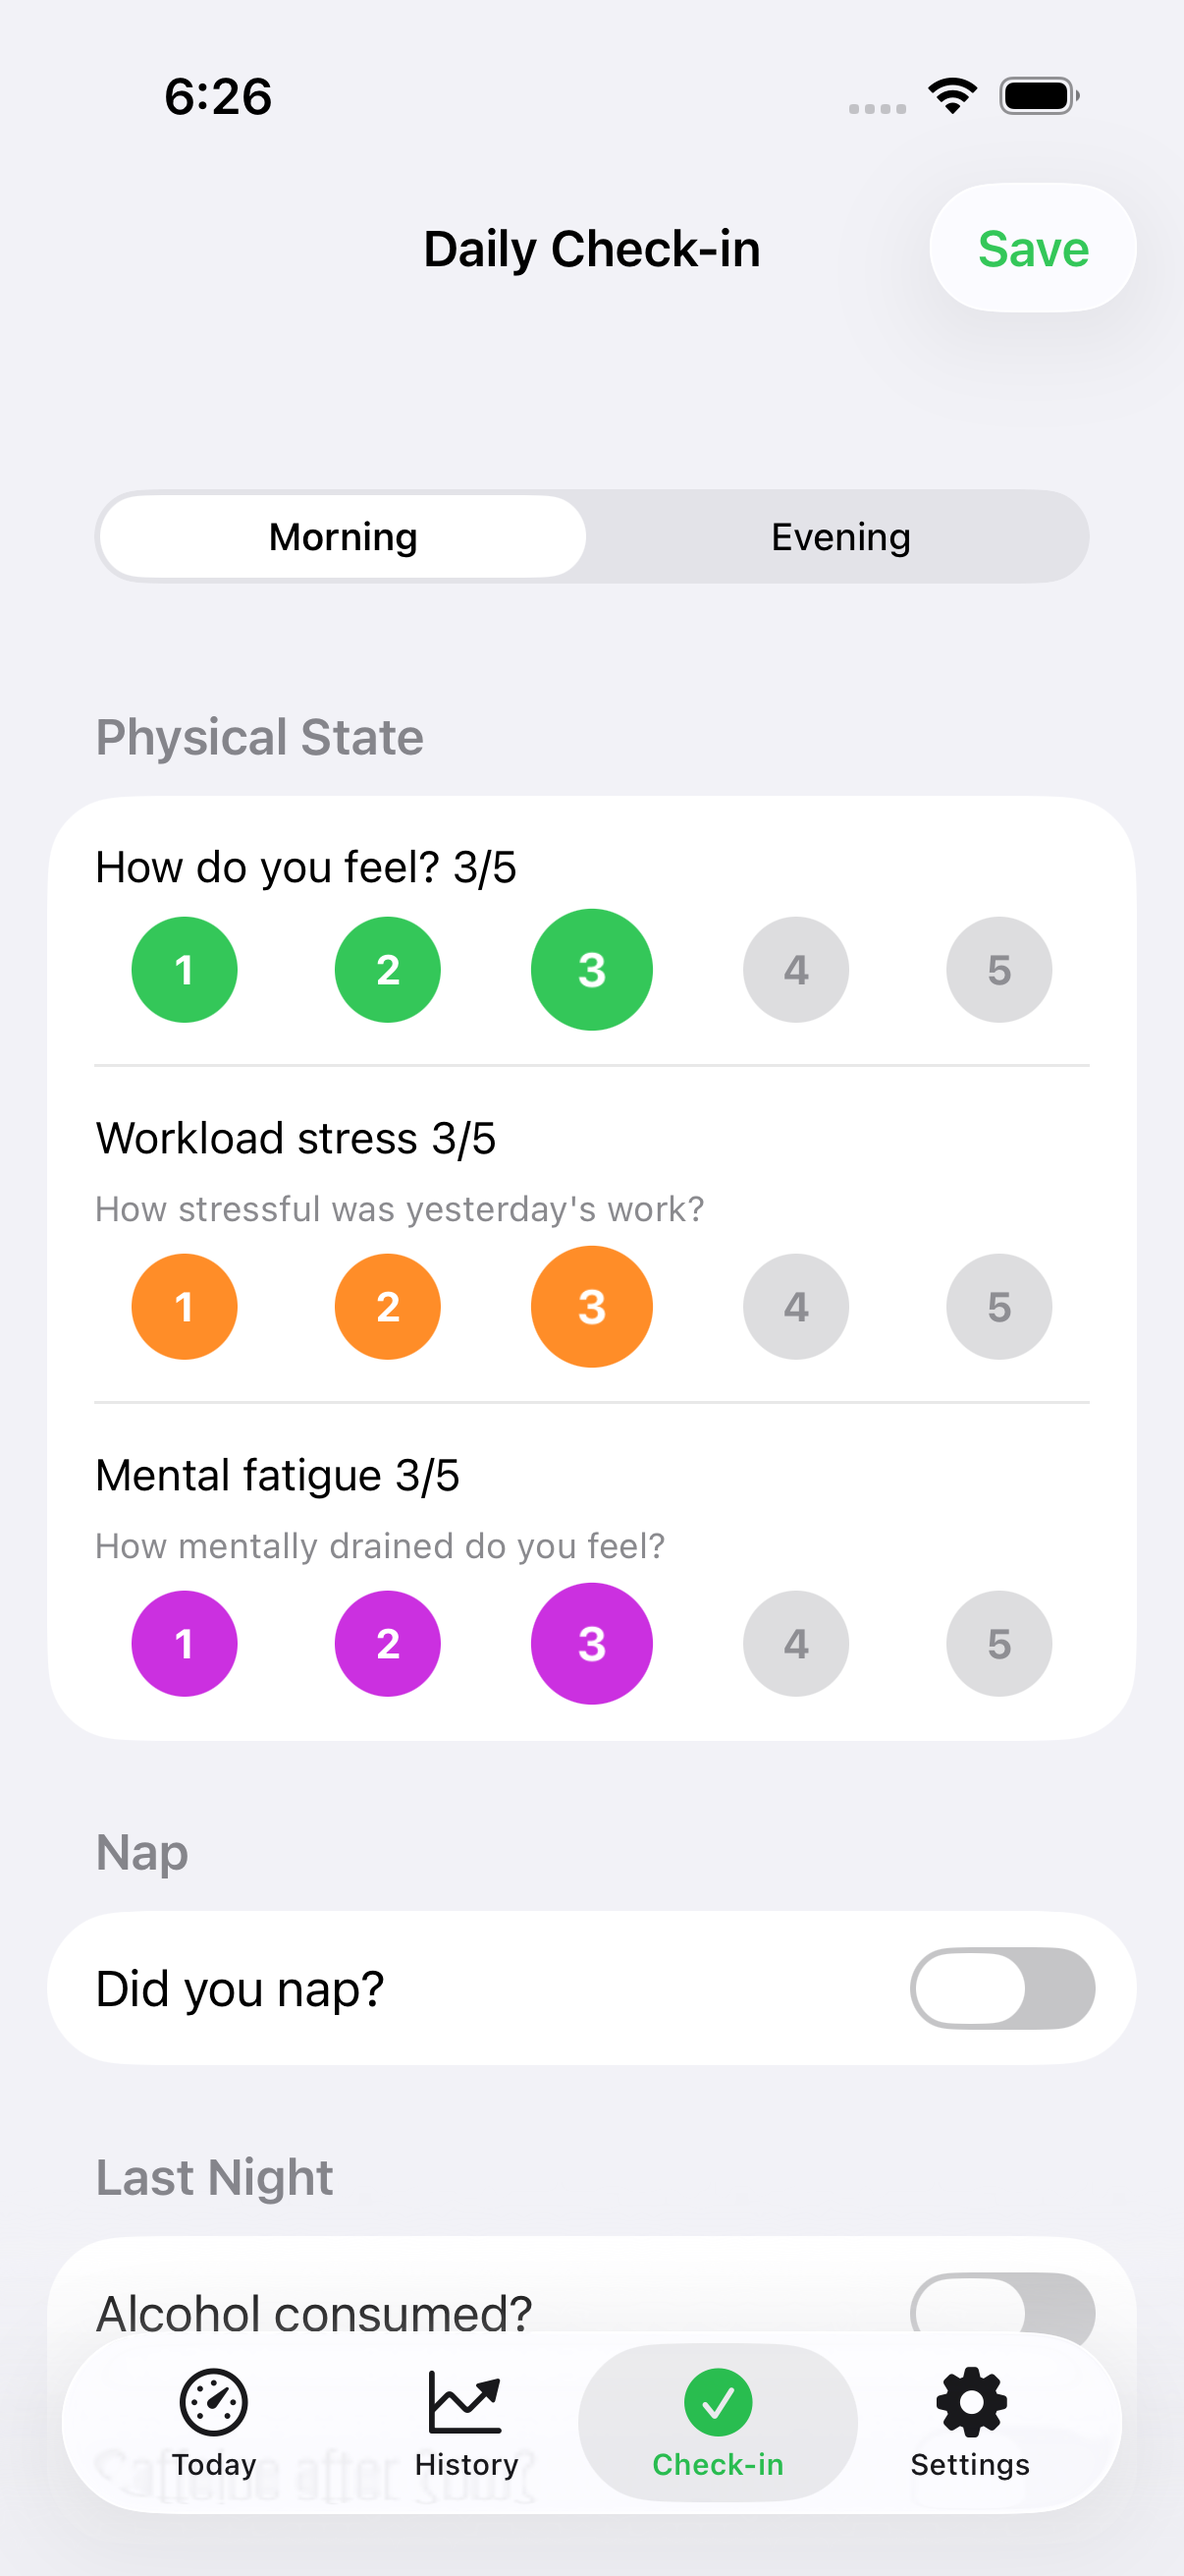
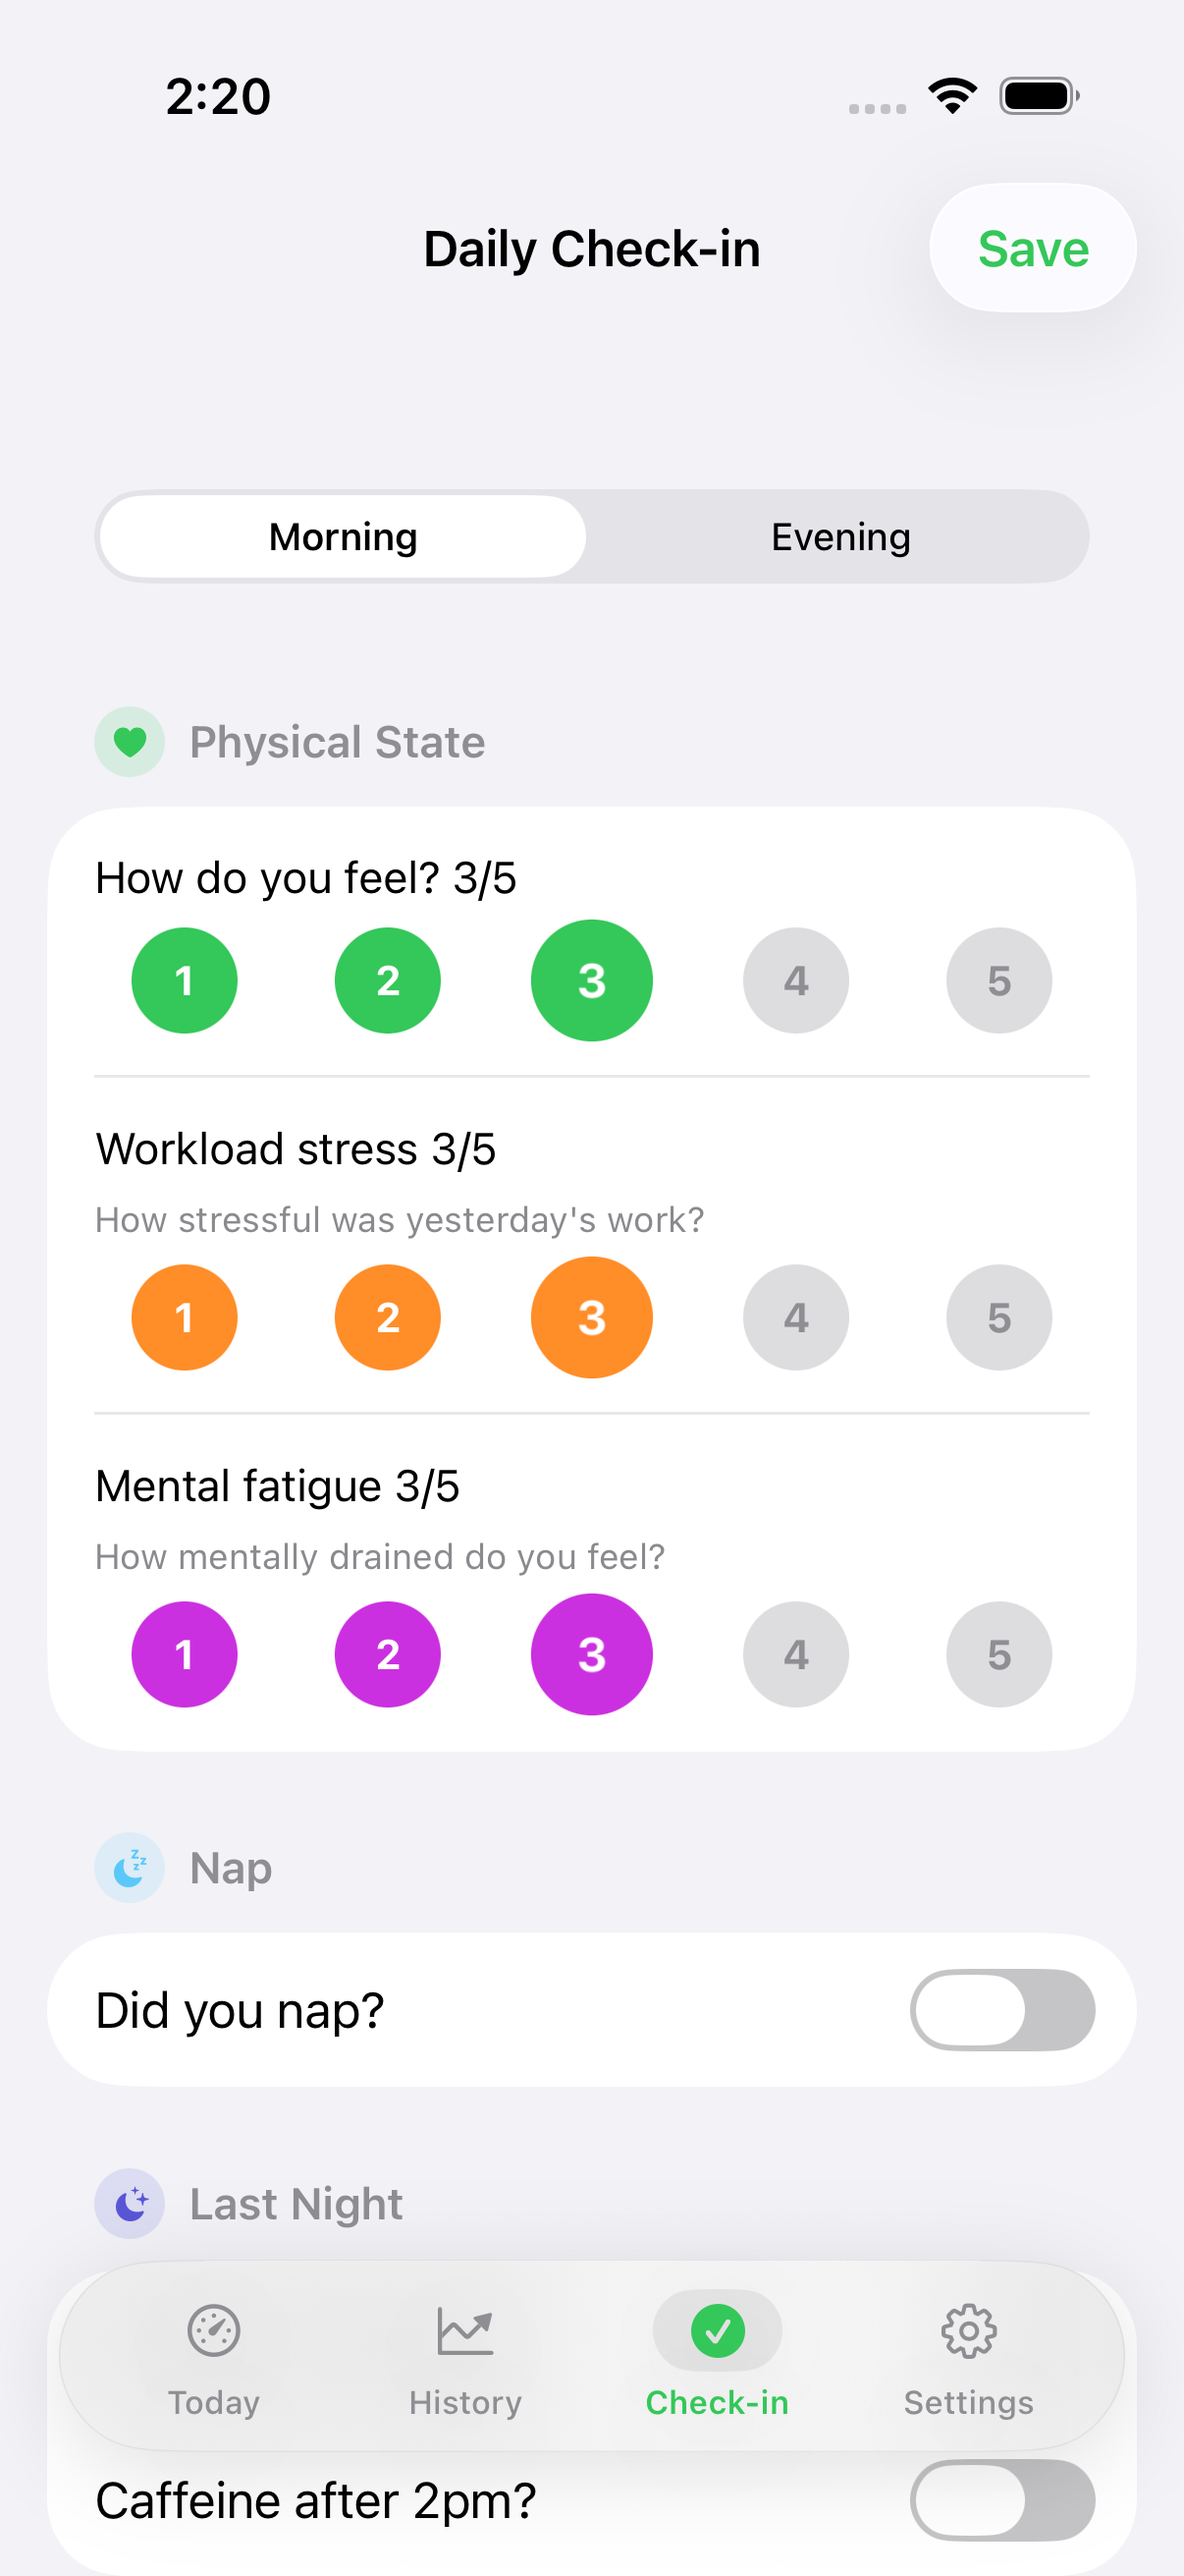
feat(check-in): Apple circular section header wells (Honest #65) (#83)
Tinted SF Symbol wells on Check-in section headers; a11y ids + UITest proof.

diff --git a/ReadinessTracker/Views/CheckInView.swift b/ReadinessTracker/Views/CheckInView.swift
@@ -106,7 +106,7 @@ struct CheckInView: View {
     
     private var morningSection: some View {
         Group {
-            Section("Physical State") {
+            Section {
                 VStack(alignment: .leading, spacing: 8) {
                     Text("How do you feel? \(subjectiveFeel)/5")
                         .font(.subheadline)
@@ -130,9 +130,9 @@ struct CheckInView: View {
                         .foregroundColor(.secondary)
                     feelPicker(binding: $mentalFatigue, color: .purple)
                 }
-            }
+            } header: { checkInSectionHeader("Physical State", icon: "heart.fill", tint: RTColor.optimal) }
             
-            Section("Nap") {
+            Section {
                 Toggle("Did you nap?", isOn: $hadNap)
                 if hadNap {
                     VStack(alignment: .leading) {
@@ -147,26 +147,26 @@ struct CheckInView: View {
                         feelPicker(binding: $napQuality, color: .blue)
                     }
                 }
-            }
+            } header: { checkInSectionHeader("Nap", icon: "moon.zzz.fill", tint: Color(hex: "5AC8FA")) }
             
-            Section("Last Night") {
+            Section {
                 Toggle("Alcohol consumed?", isOn: $alcoholConsumed)
                 if alcoholConsumed {
                     Stepper("Drinks: \(alcoholDrinks)", value: $alcoholDrinks, in: 1...10)
                 }
                 Toggle("Caffeine after 2pm?", isOn: $caffeineAfter2pm)
-            }
+            } header: { checkInSectionHeader("Last Night", icon: "moon.stars.fill", tint: RTColor.sleep) }
             
-            Section("Wellness") {
+            Section {
                 Toggle("Feeling sick?", isOn: $isSick)
                 Toggle("Feeling stressed?", isOn: $isStressed)
-            }
+            } header: { checkInSectionHeader("Wellness", icon: "cross.case.fill", tint: RTColor.caution) }
         }
     }
     
     private var eveningSection: some View {
         Group {
-            Section("Today's Activity") {
+            Section {
                 Toggle("Workout today?", isOn: $workoutToday)
                 if workoutToday {
                     TextField("Type (e.g. Run, Lift, HIIT)", text: $workoutType)
@@ -200,9 +200,9 @@ struct CheckInView: View {
                         }
                     }
                 }
-            }
+            } header: { checkInSectionHeader("Today's Activity", icon: "figure.run", tint: RTColor.strain) }
             
-            Section("Tomorrow") {
+            Section {
                 Toggle("Planned workout?", isOn: $plannedWorkoutTomorrow)
                 if plannedWorkoutTomorrow {
                     TextField("Type", text: $plannedWorkoutType)
@@ -213,10 +213,29 @@ struct CheckInView: View {
                     }
                     .pickerStyle(.segmented)
                 }
-            }
+            } header: { checkInSectionHeader("Tomorrow", icon: "calendar", tint: RTColor.good) }
         }
     }
     
+
+    private func checkInSectionHeader(_ title: String, icon: String, tint: Color) -> some View {
+        HStack(spacing: 8) {
+            Image(systemName: icon)
+                .font(.system(size: 11, weight: .semibold))
+                .foregroundStyle(tint)
+                .frame(width: 24, height: 24)
+                .background(tint.opacity(0.14))
+                .clipShape(Circle())
+            Text(title)
+                .font(.subheadline.weight(.semibold))
+                .foregroundStyle(RTColor.secondaryText)
+                .textCase(nil)
+        }
+        .accessibilityElement(children: .combine)
+        .accessibilityLabel(title)
+        .accessibilityIdentifier("checkin.section.\(title.lowercased().replacingOccurrences(of: " ", with: "-"))")
+    }
+
     private func feelPicker(binding: Binding<Int>, color: Color = .green) -> some View {
         HStack {
             ForEach(1...5, id: \.self) { i in

diff --git a/ReadinessTrackerUITests/SurfacesUITests.swift b/ReadinessTrackerUITests/SurfacesUITests.swift
@@ -150,20 +150,26 @@ final class SurfacesUITests: XCTestCase {
     }
 
     func testCheckInTabSurface() throws {
+        // Honest #65: Check-in section headers use circular tint icon wells.
+        _ = app.staticTexts["Readiness"].waitForExistence(timeout: 8)
         tapMainTab("Check-in")
-        // Daily Check-in: Morning/Evening segmented picker + Save chrome under -ui-fixture.
         let morning = app.buttons["Morning"]
         let evening = app.buttons["Evening"]
         let save = app.buttons["Save"]
         let physical = app.staticTexts["Physical State"]
+        let physicalId = app.descendants(matching: .any)["checkin.section.physical-state"].firstMatch
+        let feel = app.staticTexts.matching(NSPredicate(format: "label CONTAINS[c] %@", "feel")).firstMatch
         XCTAssertTrue(
-            morning.waitForExistence(timeout: 8) ||
-            evening.waitForExistence(timeout: 8) ||
-            save.waitForExistence(timeout: 8) ||
-            physical.waitForExistence(timeout: 8)
+            morning.waitForExistence(timeout: 10) ||
+            evening.waitForExistence(timeout: 2) ||
+            save.waitForExistence(timeout: 2) ||
+            physical.waitForExistence(timeout: 2) ||
+            physicalId.waitForExistence(timeout: 2) ||
+            feel.waitForExistence(timeout: 2),
+            "Check-in surface"
         )
-        XCTAssertTrue(morning.exists || evening.exists || save.exists || physical.exists)
         _ = app.staticTexts["Daily Check-in"].exists
+        _ = physical.exists || physicalId.exists
         saveShot("verify-checkin.png")
     }
 

diff --git a/.cursor/skills/verify-readiness-tracker/features/check-in.md b/.cursor/skills/verify-readiness-tracker/features/check-in.md
@@ -1,0 +1,15 @@
+# Check-in tab
+
+## Sub-features
+- Morning / Evening segmented control
+- Section headers with circular tint SF Symbol wells
+- Rating dots + toggles
+
+## How to get to it
+Check-in tab
+
+## Driving it with the harness
+`SurfacesUITests.testCheckInTabSurface` → `.audit/verify-checkin.png`
+
+## Gotchas
+Keep form semantics; chrome-only Honest passes.
